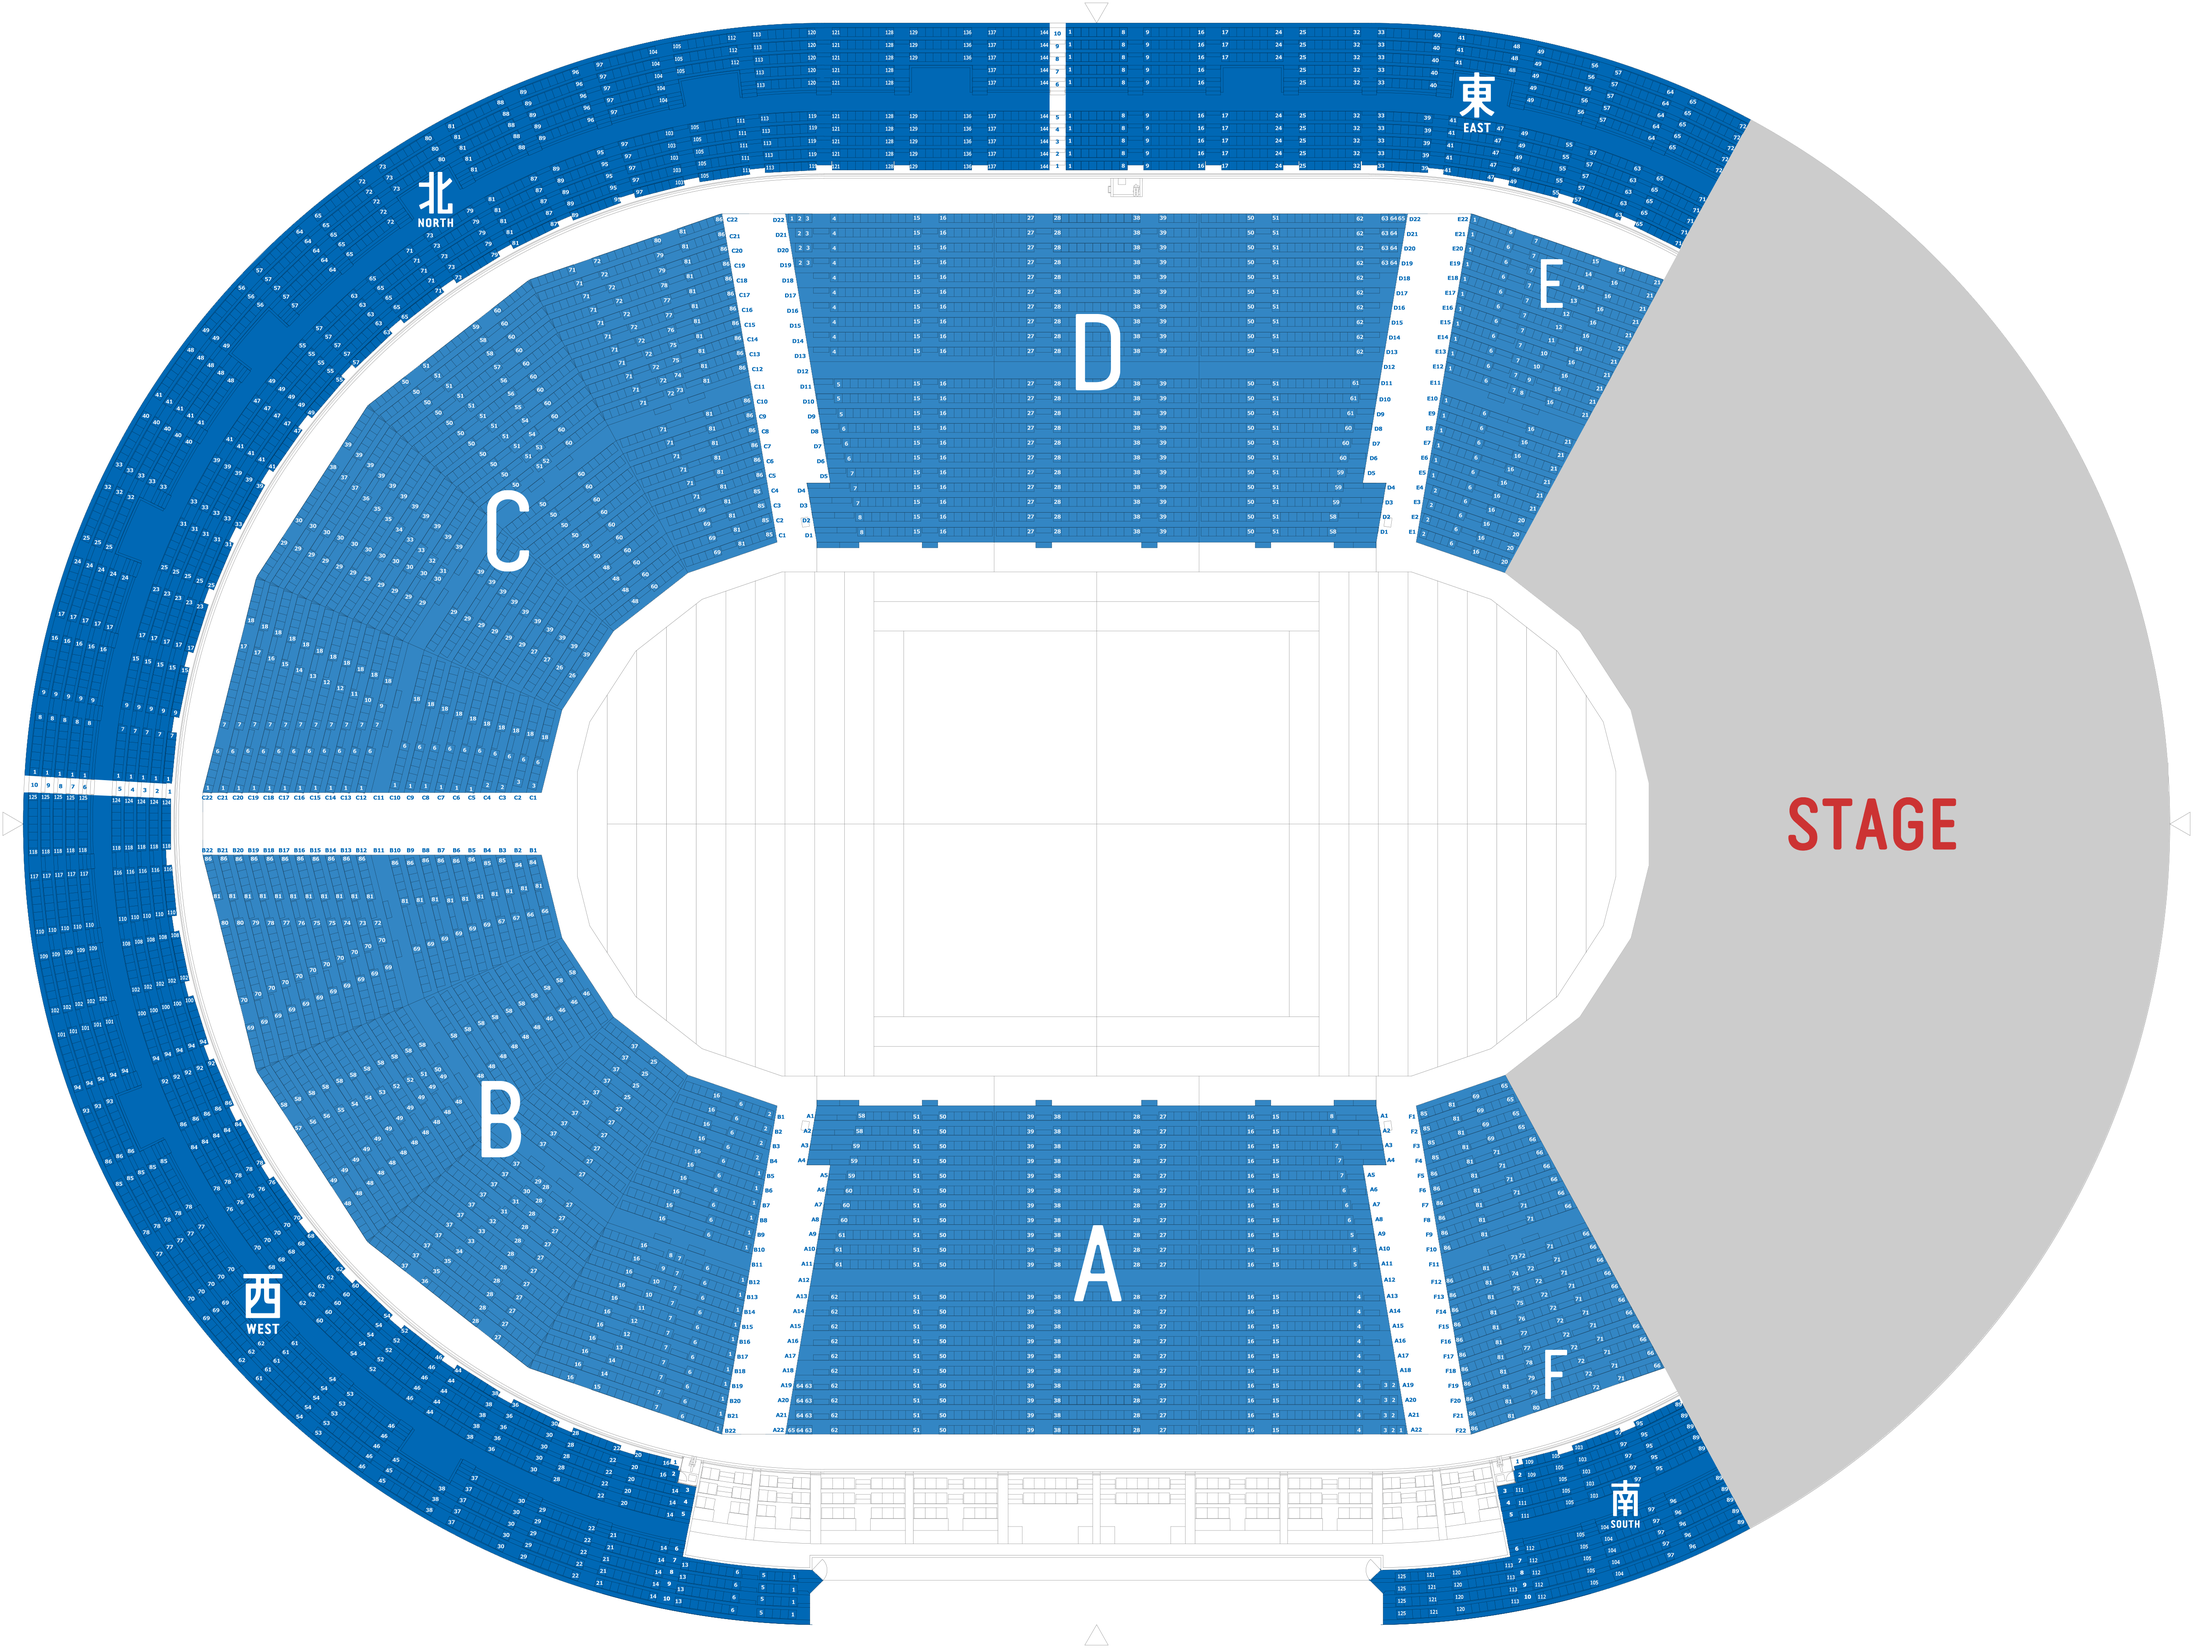
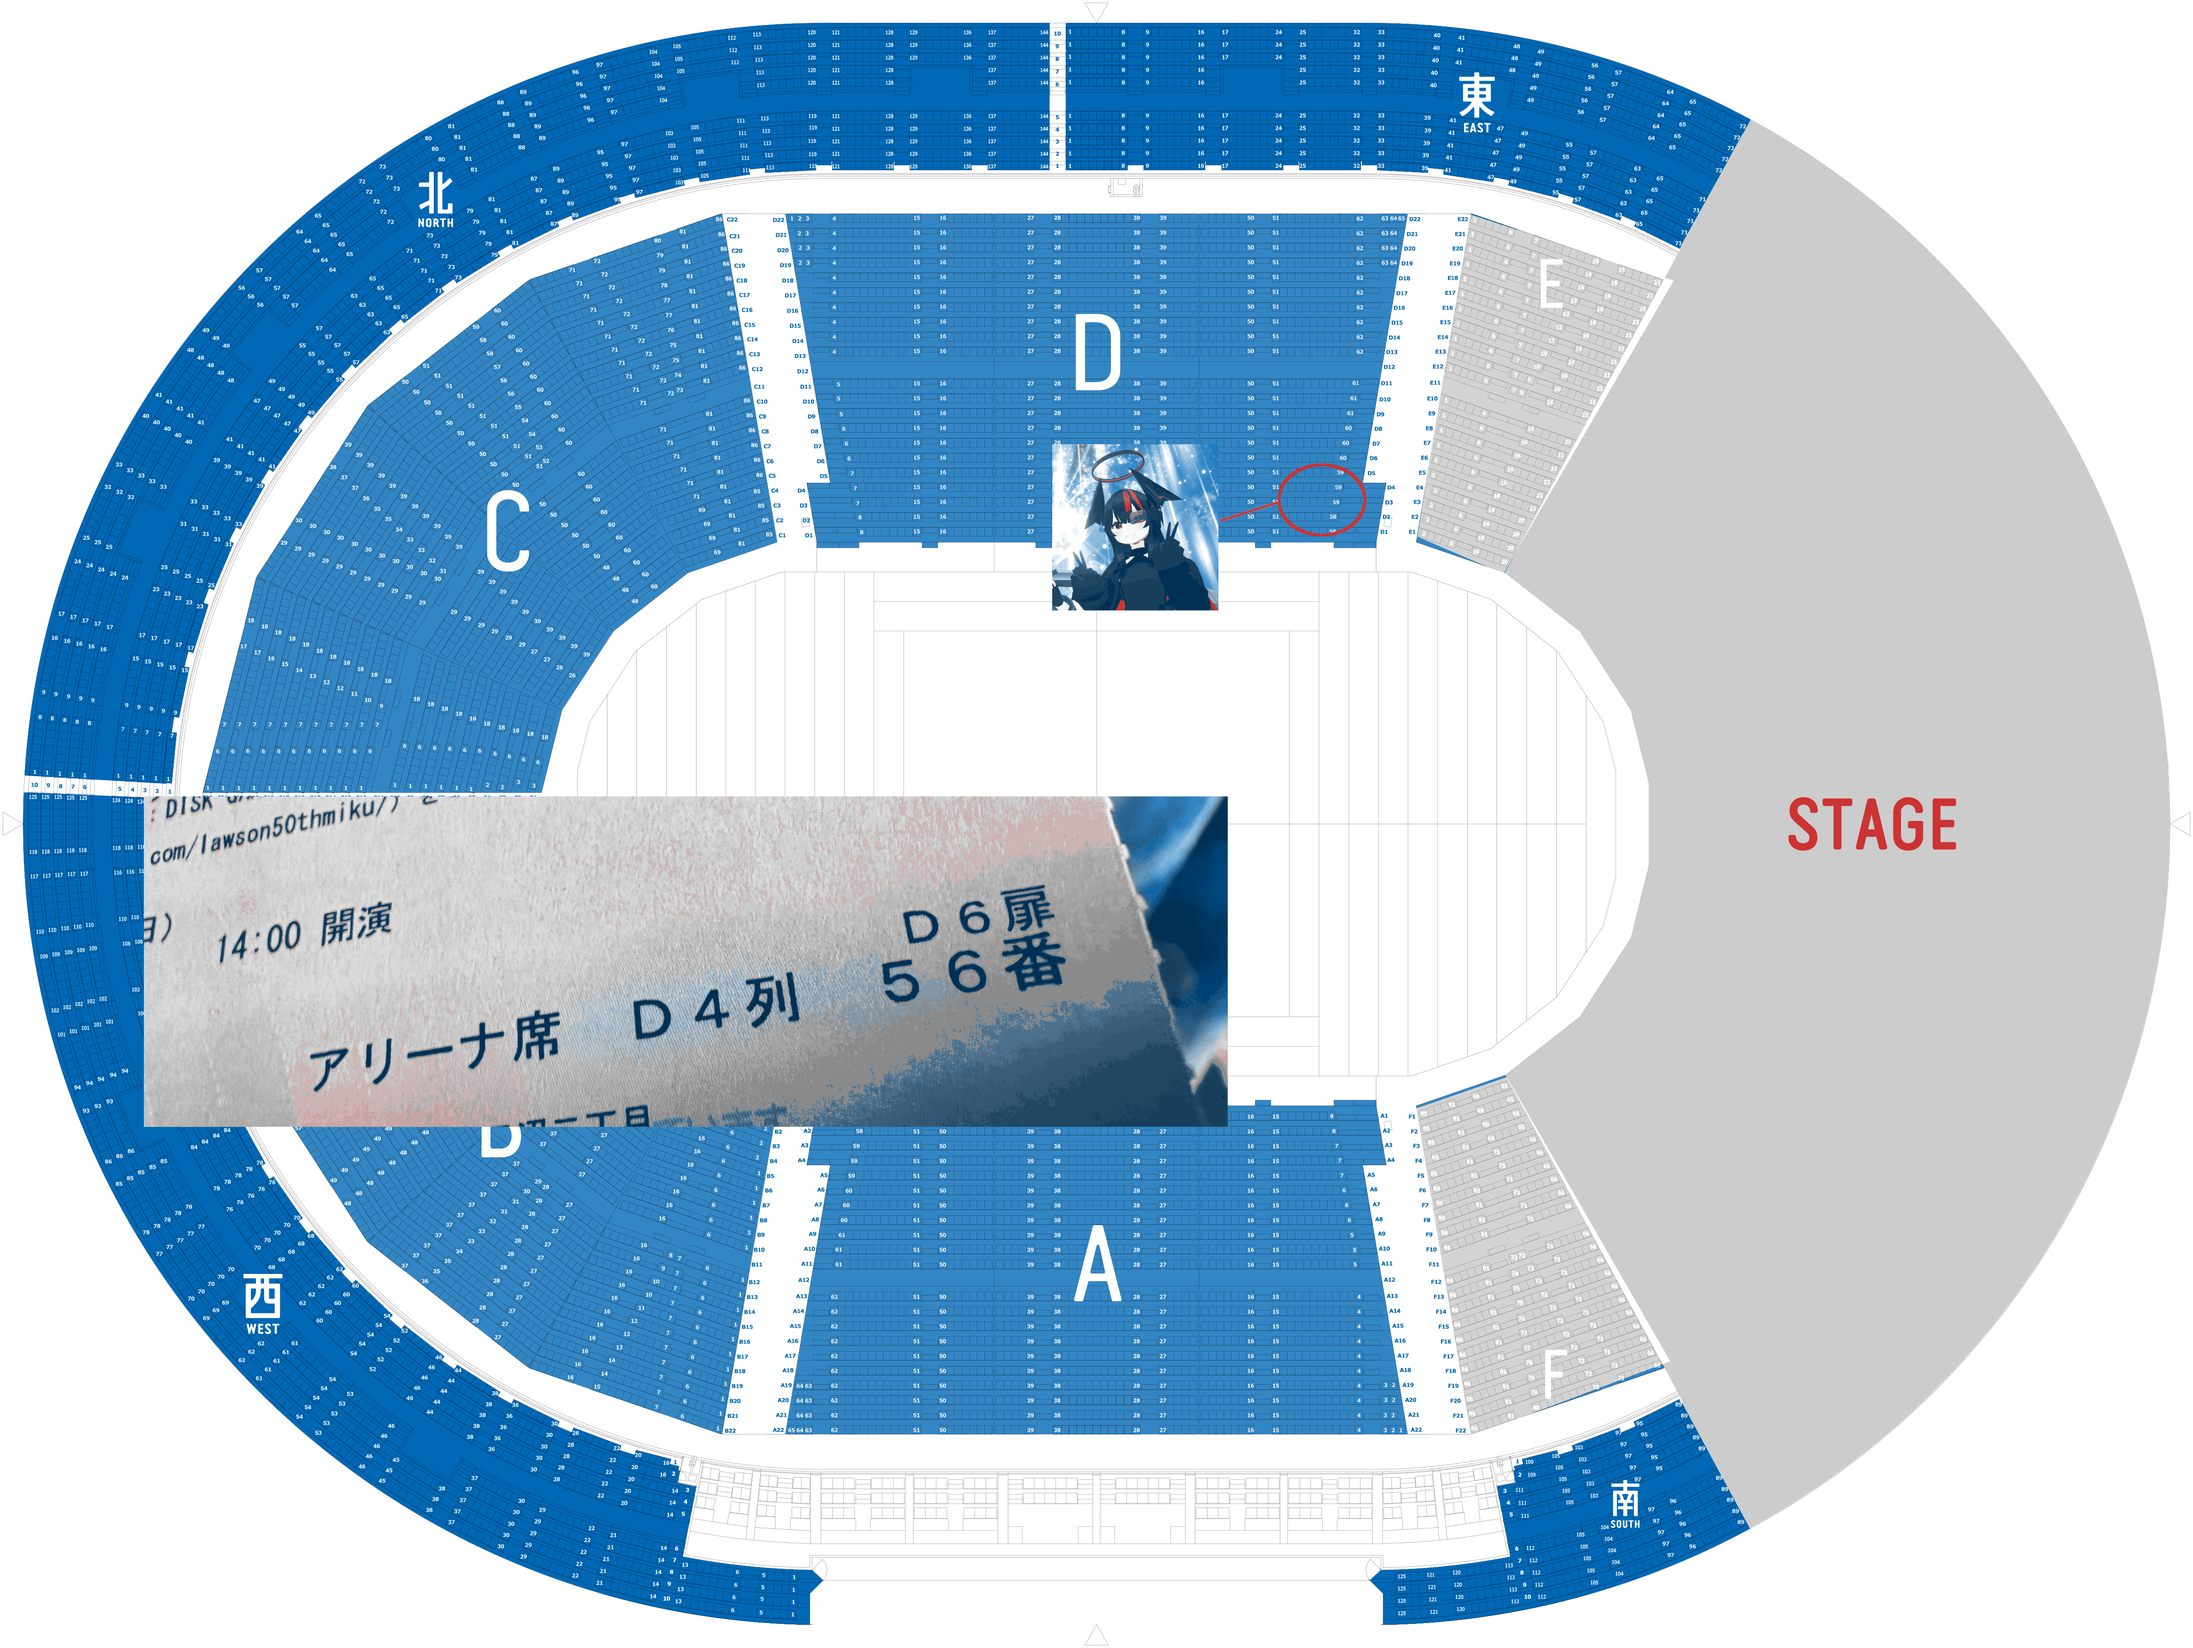
new-article: ローミク参戦記

diff --git a/_posts/lawson-miku.md b/_posts/lawson-miku.md
@@ -9,3 +9,42 @@ tags:
 thumbnail: /images/blog/20260118/icatch.JPG
 category: daily
 ---
+
+# ローソン"さん"ありがとう
+マジカルミライ2025Tokyoからはや5か月．横浜アリーナにて開催された「[初音ミク LAWSON 50th Anniversary Special LIVE](https://l-tike.com/concert/lawson50th_260117_0118/)」に大学の同期とともに参戦してきました．
+
+![会場到着](/images/blog/20260118/image2.JPG)
+> 会場到着午前9:00物販開場1時間前でもかなりの待機列
+
+## セトリのやばさ
+今回の開催地は初代マジミラの原点横浜アリーナ．慣れ親しんだ幕張メッセと違い自宅からのアクセスの大変さや，慣れない構造の会場ということで，不安とワクワクで当日を迎えました．私は初代のマジミラから参加しているほどの古参ファンではありませんでしたが，今回のセトリでは，これまで映像でしか見たことがなかった「Sweet Devil」や「インビテーション！」といった初代マジミラ楽曲や，「テオ」や「Call!!」のような最近のマジミラ(2024年)でも披露された楽曲で再び盛り上がることが出来てとても幸せでした．
+
+
+ローソンという一見ボーカロイドとは無縁の大手コンビニ企業が主催するライブということで一体どのようなセトリが披露されるものかと思って見れば，一曲目から初代マジミラのリバイバル．続く三曲目からはテオで熱量を跳ね上げてからの「ロストワンの号哭」「右肩の蝶」「ルカルカ☆ナイトフィーバー」まさかのミクさん以外のピアプロキャラの登場に歓喜しながら，ボカロを知るきっかけになった中学時代の楽曲ラッシュに限界を迎えてました(この時点で瀕死)．
+
+
+事前に予習済みの「アイドル戦士」や続く「Jump for Joy」といった楽曲では，ミクさんルカさんからのコールに対して当日に知り合った周囲のファンと一体になった掛け合いがとても楽しかったです(良席がゆえに視線をずらすと会場全体が見渡せて半端なかった)．また，事前に2013年のセトリをリピートしていたことから，wowaka楽曲の「アンハッピーリフレイン」の再演を待ち望んでいましたが，バンメン紹介後の静けさからかかったのは「アンノウン・マザーグース」．会場にいる全員がwowakaを知っている．そんな一体感のなかで響く大合唱，あの場にいれたことが本当に幸せでした(そこから休むことなく激唱．オタクを倒しにかかっていやがる)．
+
+> Loppiポーズで忠誠を示せ
+## 横浜アリーナありがとう
+今回のライブの体験幸福度の高さを実現した要因として横浜アリーナのライブステージの構造のすばらしさがあります(断言)．今回私が当選したのは"アリーナ席"，これまでのライブでは幕張メッセがほとんどで，SS席相当のセンター席での観戦がほとんどでした．アリーナということで，ステージが遠くなってしまうのではないか，角度の問題で見えにくいのではないかという懸念を持っていました．
+
+
+しかし，今回当選したアリーナ席，なんと"**バンドメンバーとまったく同じ床!**"だったのです．チケットに記載された席を探していくと，どんどんステージに近づいていき，両隣のファンの方とも歓喜したのを覚えています．
+![ステージ](/images/blog/20260118/stage.png)
+> 目の前にはミクさんがそこに"いる"．視線を右にやればペンライトの海
+
+他にも，SNSなどで話題になっていましたが，今回のステージで採用されていたLEDディスプレイも奥域や照明を利用した明暗や，極薄のベゼルのおかげも相まって，電子のセカイと私たちを繋ぐ最高のインタフェースになっていたと思います．
+
+
+次にミクさんたちに合えるのは3月のポケミク．こちらの開催地は最近(当社比)できたばかりのララアリーナ，横アリ同様のアリーナ席ということで非常に楽しみです．
+
+## さいごに
+この記事を書いている今も，ライブから数日たちましたが全く余韻が覚めません．それだけ最高のライブになりました(ローソンさんありがとう!!!)．ポケミクが終われば次のライブはおそらくマジカルミライ2026.今年は初の地方会開催にも参戦したいと考えています．
+
+
+今年一年，研究と技術研鑽に励みつつ，残りのミクさんにすべてを捧げます///
+
+
+
+> 「では，また次のミライで」
